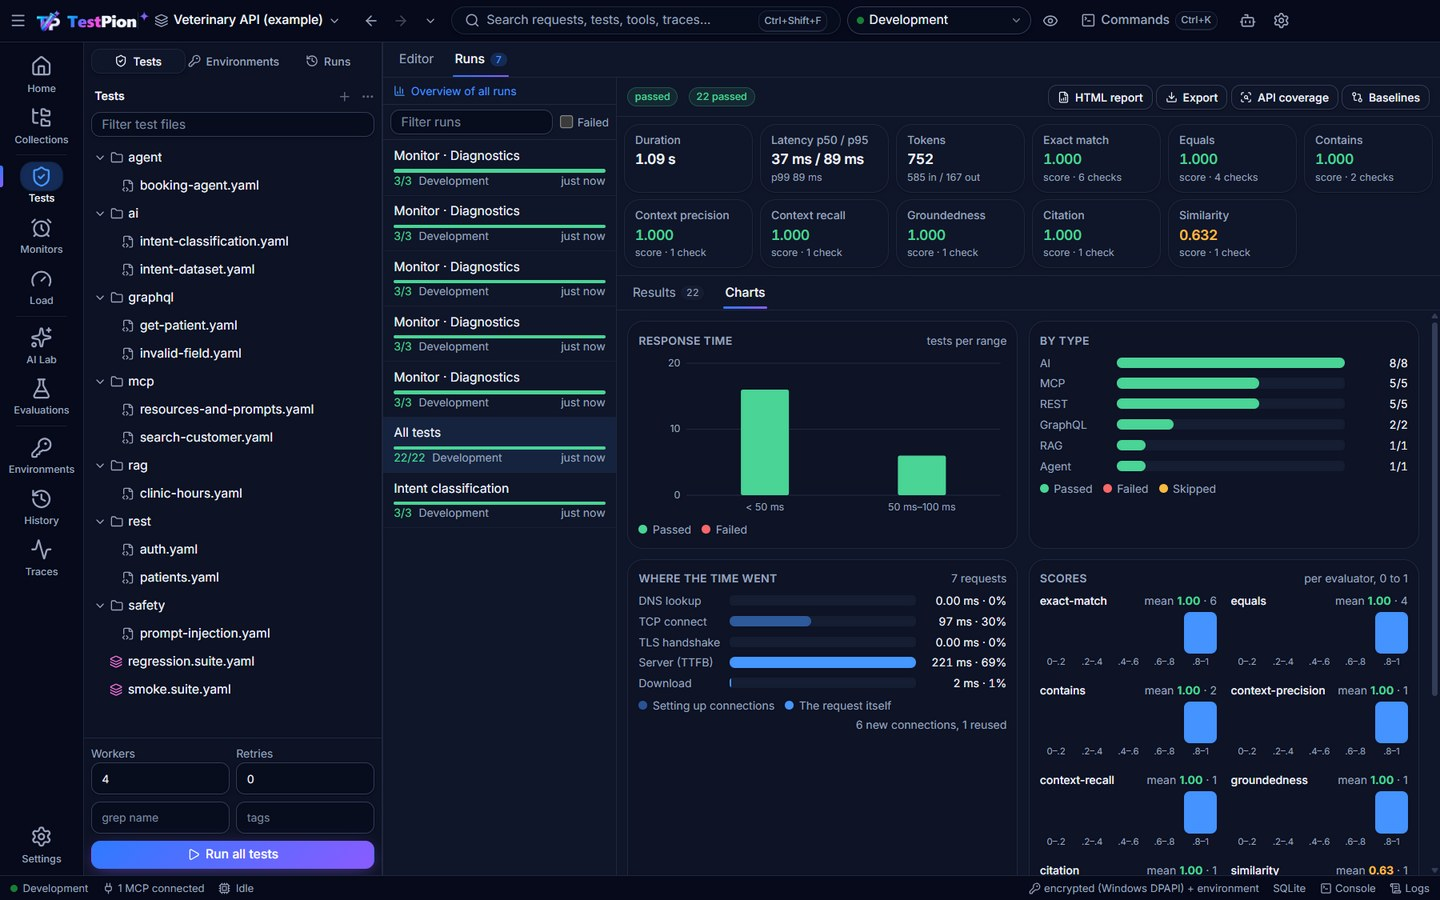
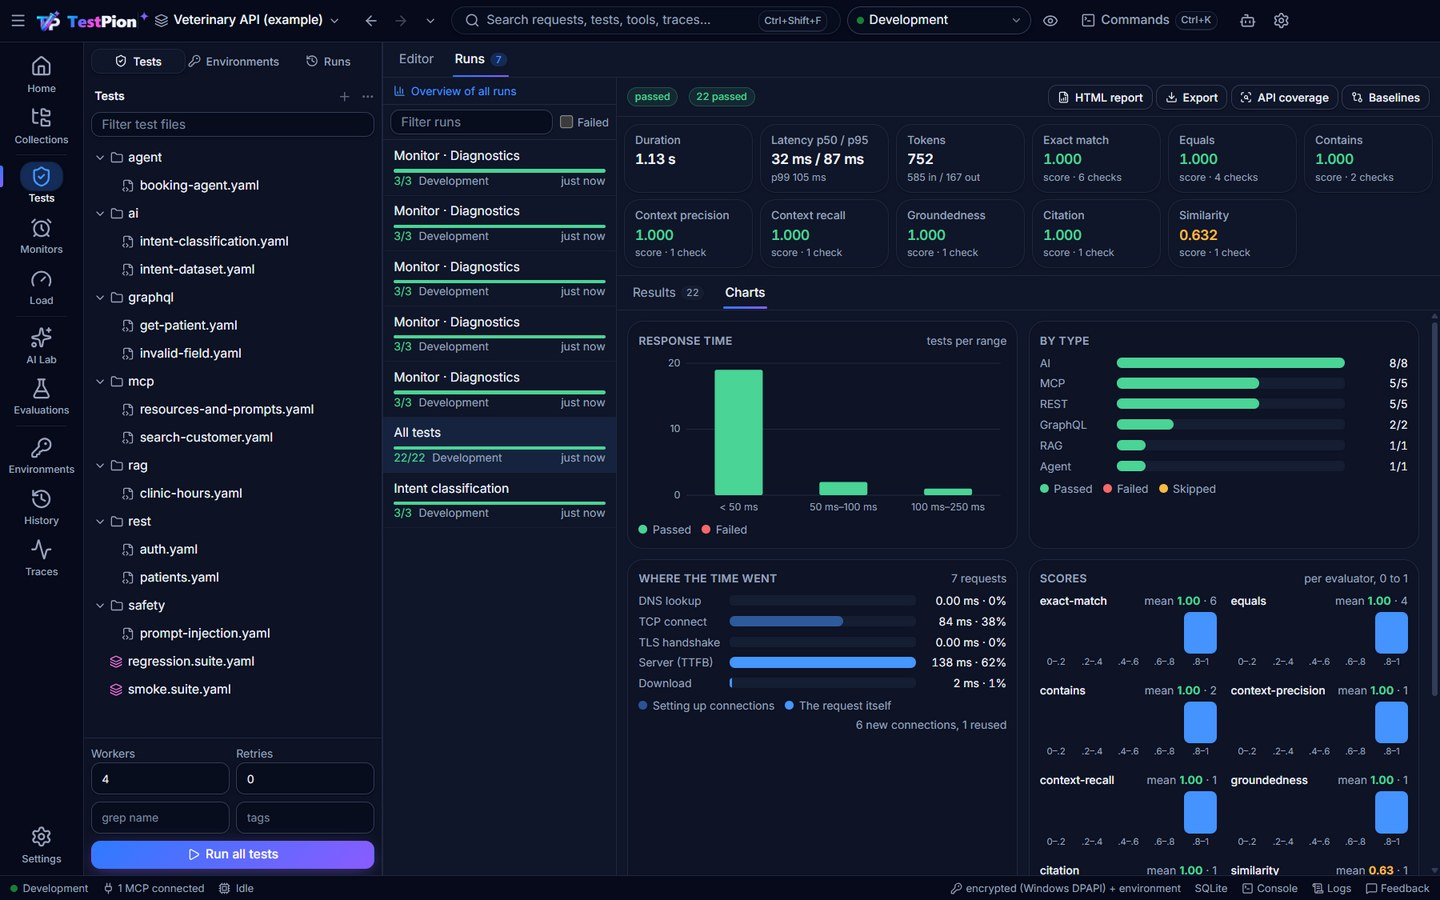
Release v0.38.0

diff --git a/packages/core/src/version.ts b/packages/core/src/version.ts
@@ -1,2 +1,2 @@
 /** TestPion's version (the engine, CLI and app are released together). */
-export const ENGINE_VERSION = '0.37.0';
+export const ENGINE_VERSION = '0.38.0';

diff --git a/CHANGELOG.md b/CHANGELOG.md
@@ -1,5 +1,14 @@
 # Changelog
 
+## 0.38.0 — 2026-10-01
+
+Highlights: send feedback and report problems from the app, and steadier tabs.
+
+- **Send feedback or report a problem**: Help ▸ Send Feedback, the **Feedback** button in the status bar, or the command palette. Choose Problem, Idea, Design or Question; include the versions and platform and the app's recent errors only if you want (home folders and secret-looking values are masked; requests, responses, collections and environments are never included). You see the whole report before anything leaves your computer: **Open on GitHub** opens a pre-filled issue for you to post, or **Copy** / **Save as file**.
+- **Problems are captured**: unexpected errors of the window go to the app log (status bar ▸ Logs), and a view that stops with an error offers **Report this problem** with the error filled in. `testpion feedback` builds the same report from a terminal or an agent.
+- **Tabs**: closing a view's last tab moves to the nearest open tab only right after the close; this used to fire while a tab was opening too, which could leave a blank editor without New request, or select the wrong tab. A view whose selected tab is gone selects its first tab.
+- **No open requests** is identical in every view (New request and Describe with AI); folders of saved gRPC calls and connections look like every other folder.
+
 ## 0.37.0 — 2026-10-01
 
 Highlights: AI agents can use TestPion with nothing but the app installed, and get much more from it.
